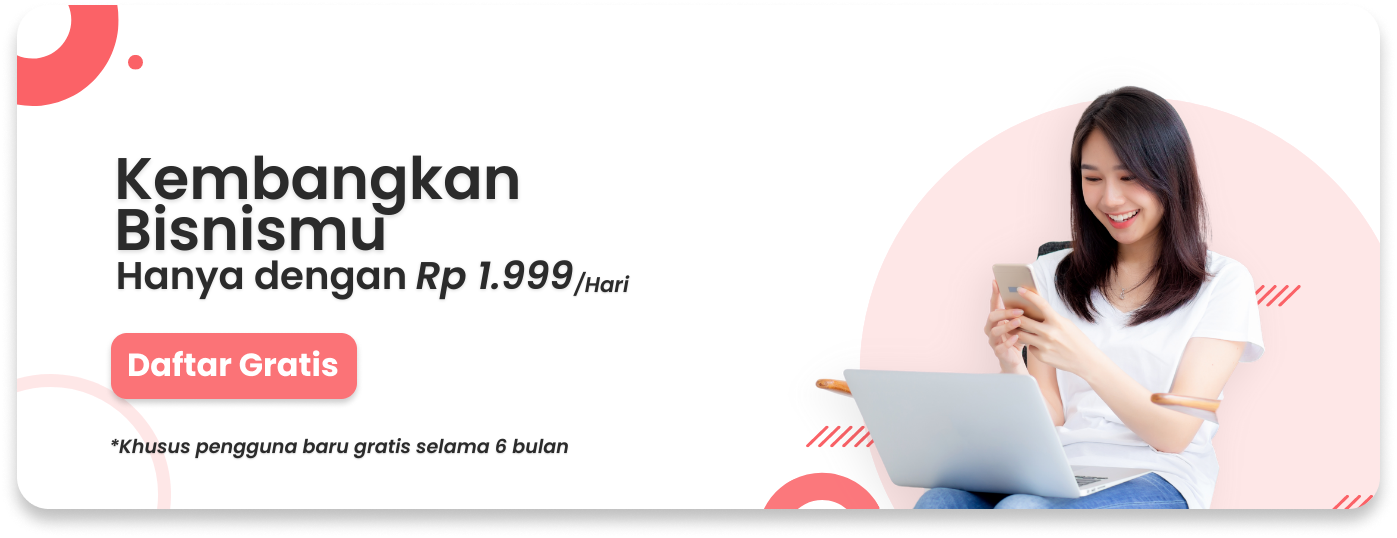
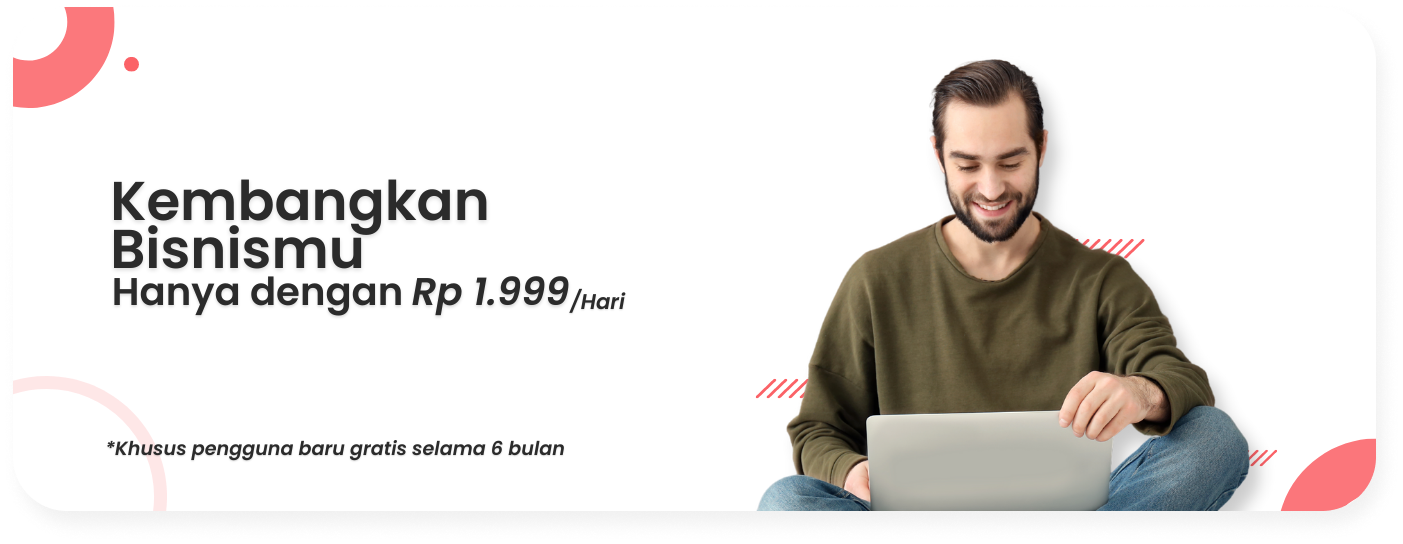
+[UPDATE] UI

diff --git a/index.html b/index.html
@@ -41,6 +41,9 @@
                                         <a class="nav-link" href="#">Tentang Kami</a>
                                    </li>
                                    <li class="nav-item">
+                                        <a class="nav-link" href="#">Affiliate</a>
+                                   </li>
+                                   <li class="nav-item">
                                         <a class="nav-link" href="#">Support</a>
                                    </li>
                                    <li class="nav-item">

diff --git a/style.css b/style.css
@@ -67,6 +67,7 @@ body {
 
 .Lbanner-section .carousel .carousel-inner img {
   width: 100%;
+  height: 600px;
 }
 
 .Lbanner-section .carousel .carousel-control-prev {

diff --git a/style.scss b/style.scss
@@ -76,6 +76,7 @@ body {
 
                img {
                     width: 100%;
+                    height: 600px;
                }
           }
 
